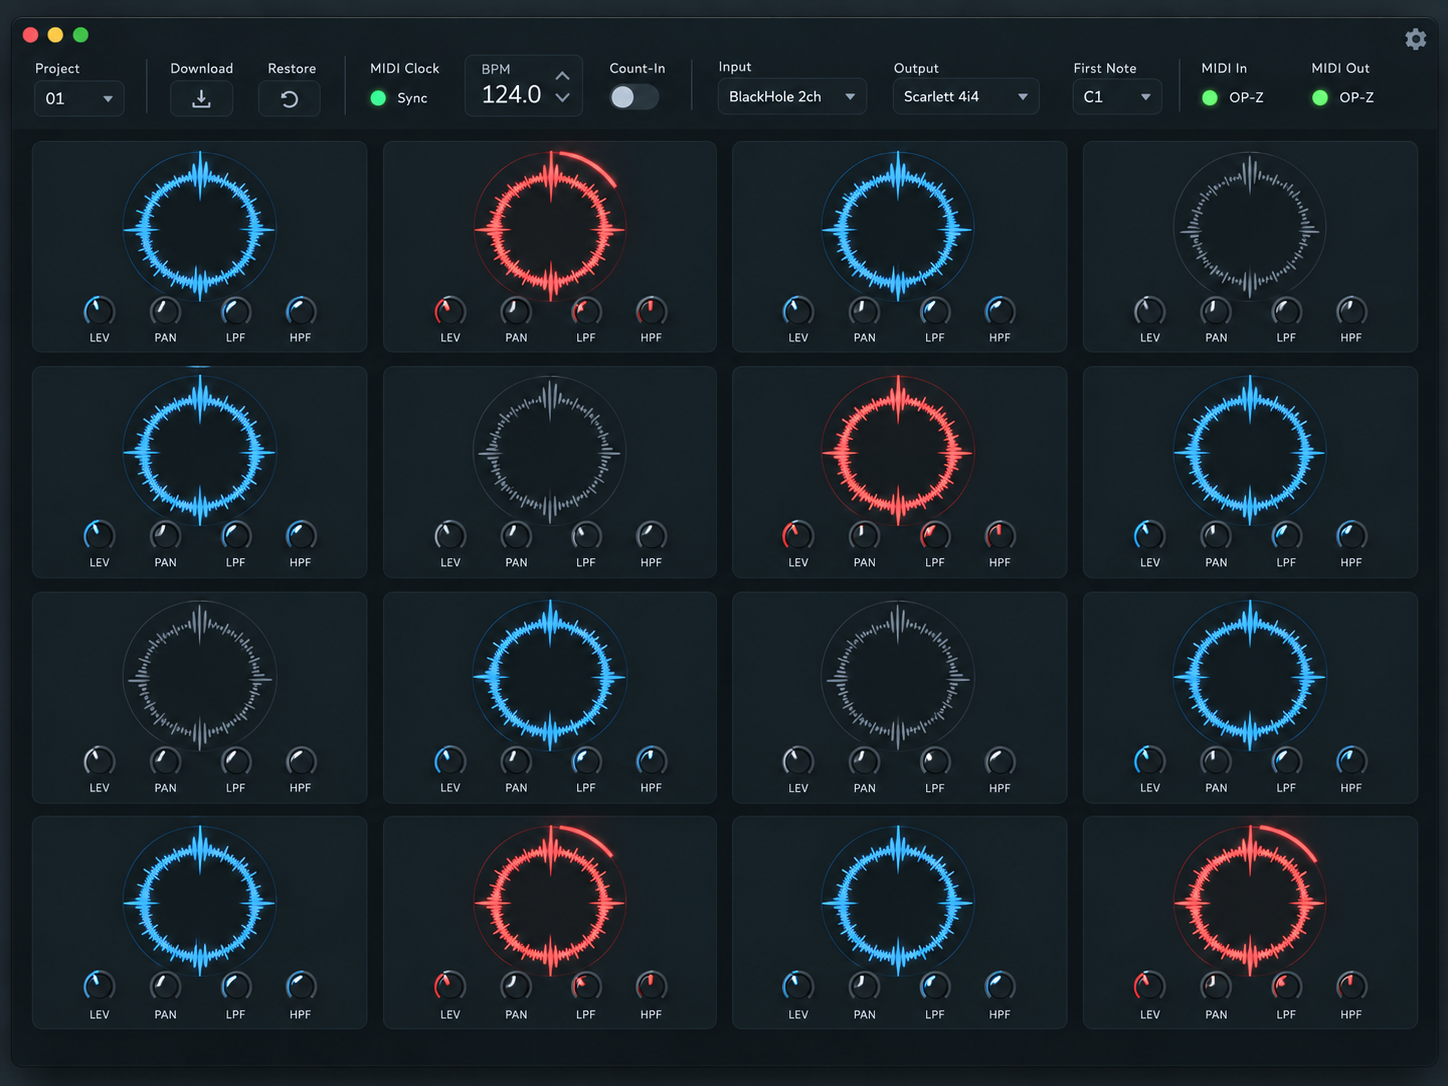
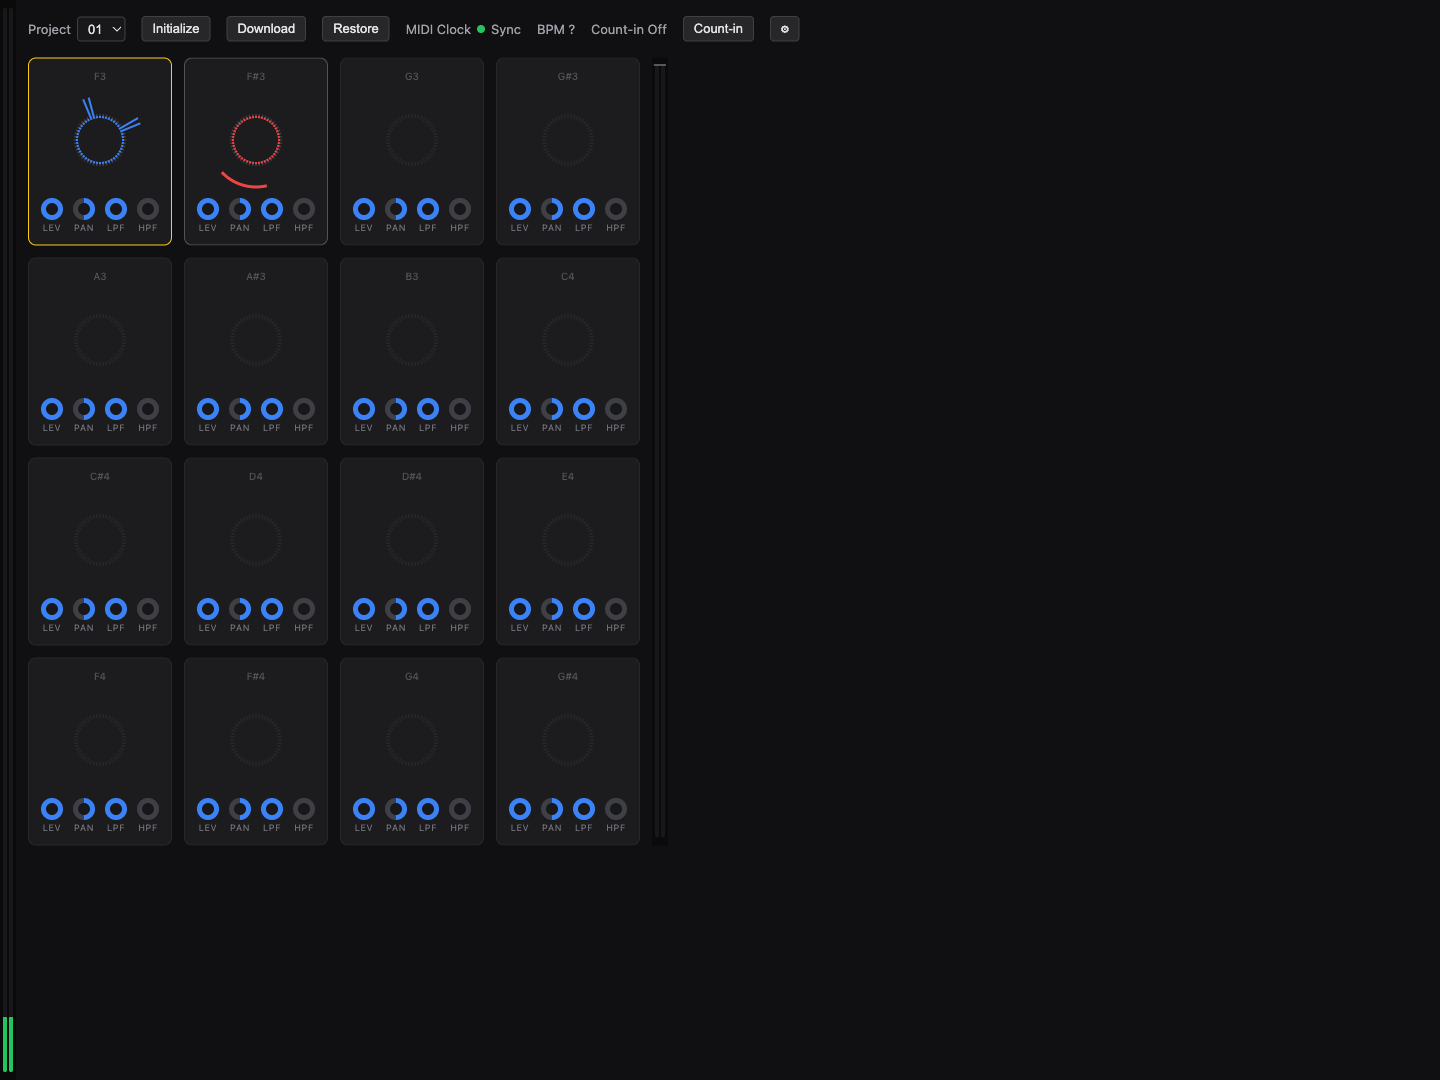
tweaks and headless testing

diff --git a/packages/loop-pad/src/sampler/useSampler.ts b/packages/loop-pad/src/sampler/useSampler.ts
@@ -8,7 +8,7 @@
 import { useEffect, useMemo, useRef, useState } from 'react';
 import { SamplerEngine } from '../audio/samplerEngine';
 import { MidiEngine, type MidiDeviceRef, type MidiEvent } from '../midi/midiEngine';
-import { computePeaks, makeDefaultProject, makeDefaultSlot, SLOT_COUNT, type Project } from './model';
+import { computePeaks, makeDefaultProject, makeDefaultSlot, SLOT_COUNT, type Project, type Slot } from './model';
 import {
   clearAllProjects, loadProject, saveProject, downloadAllProjects,
   restoreProjectsFromZip, restoreSingleProject, PROJECT_COUNT,
@@ -76,6 +76,8 @@ export function useSampler() {
   settingsRef.current = settings;
 
   const selectedSlotRef = useRef<number | null>(null);
+  const previousSelectedSlotRef = useRef<number | null>(null);
+  const deletedSlotsRef = useRef<Map<number, Slot>>(new Map());
   const lastSampleEventRef = useRef<{ slot: number; time: number } | null>(null);
   const lastDeleteEventTimeRef = useRef<number | null>(null);
   const standaloneDeleteTimeoutRef = useRef<ReturnType<typeof setTimeout> | null>(null);
@@ -88,6 +90,7 @@ export function useSampler() {
   const expectedTransportEchoRef = useRef<{ type: 'start' | 'stop'; expiresAt: number } | null>(null);
   const sentTransportEventsRef = useRef<('start' | 'stop')[]>([]);
   const initPromiseRef = useRef<Promise<void> | null>(null);
+  const initErrorRef = useRef<string | null>(null);
   const autoSaveTimeoutRef = useRef<ReturnType<typeof setTimeout> | null>(null);
   const playbackStartRef = useRef<Map<number, { startedAt: number; durationMs: number }>>(new Map());
   const recordingTailTimeoutRef = useRef<Map<number, ReturnType<typeof setTimeout>>>(new Map());
@@ -107,20 +110,45 @@ export function useSampler() {
 
   function selectSlot(slot: number | null): void {
     if (selectedSlotRef.current === slot) return;
+    if (slot !== null && selectedSlotRef.current !== null) {
+      previousSelectedSlotRef.current = selectedSlotRef.current;
+    }
     selectedSlotRef.current = slot;
     setSelectedSlot(slot);
+  }
+
+  function clearSelection(): void {
+    previousSelectedSlotRef.current = null;
+    selectSlot(null);
+  }
+
+  function restorePreviousSelection(): void {
+    const previous = previousSelectedSlotRef.current;
+    previousSelectedSlotRef.current = null;
+    selectedSlotRef.current = previous;
+    setSelectedSlot(previous);
   }
 
   function deleteSlot(slot: number): void {
     const engine = engineRef.current!;
     const current = projectRef.current.slots[slot]!;
+    const deleted = deletedSlotsRef.current.get(slot);
     if (current.state === 'recording') {
       cancelRecordingTail(slot);
       engine.cancelRecording(slot);
     }
     engine.clearSlotBuffer(slot);
+    if (deleted) {
+      projectRef.current.slots[slot] = deleted;
+      if (deleted.samples) engine.loadSlotBuffer(slot, deleted.samples);
+      deletedSlotsRef.current.delete(slot);
+      selectSlot(slot);
+      scheduleAutoSave();
+      return;
+    }
+    if (current.samples) deletedSlotsRef.current.set(slot, { ...current, state: 'stopped' });
     projectRef.current.slots[slot] = makeDefaultSlot();
-    if (selectedSlotRef.current === slot) selectSlot(null);
+    if (selectedSlotRef.current === slot) restorePreviousSelection();
     scheduleAutoSave();
   }
 
@@ -196,6 +224,7 @@ export function useSampler() {
           current.recordingPeaks = [];
           current.state = 'stopped';
           engine.loadSlotBuffer(slot, samples);
+          deletedSlotsRef.current.delete(slot);
           selectSlot(slot);
           scheduleAutoSave();
         });
@@ -259,7 +288,7 @@ export function useSampler() {
     if (countInStateRef.current !== 'counting') return;
     if (countInTimerRef.current) clearTimeout(countInTimerRef.current);
     countInTimerRef.current = null;
-    countInStateRef.current = 'awaiting-restart';
+    countInStateRef.current = 'idle';
     setCountInCounting(false);
     sendTransportStart();
   }
@@ -403,7 +432,11 @@ export function useSampler() {
   }
 
   async function init(opts?: { silent?: boolean }): Promise<void> {
-    if (initPromiseRef.current) return initPromiseRef.current;
+    if (initPromiseRef.current) {
+      await initPromiseRef.current;
+      if (!opts?.silent && initErrorRef.current) setError(initErrorRef.current);
+      return;
+    }
     const pending = initialize(opts);
     initPromiseRef.current = pending;
     try {
@@ -491,6 +524,7 @@ export function useSampler() {
       const initialProjectIndex = lastProjectIndex >= 1 && lastProjectIndex <= PROJECT_COUNT ? lastProjectIndex : 1;
       const loaded = await loadProject(initialProjectIndex);
       projectRef.current = loaded;
+      deletedSlotsRef.current.clear();
       projectIndexRef.current = initialProjectIndex;
       for (let slot = 0; slot < SLOT_COUNT; slot++) {
         const s = loaded.slots[slot]!;
@@ -498,9 +532,12 @@ export function useSampler() {
       }
       setProjectIndex(initialProjectIndex);
       setProject({ slots: [...loaded.slots] });
+      initErrorRef.current = null;
       setReady(true);
     } catch (e) {
-      if (!opts?.silent) setError(e instanceof Error ? e.message : String(e));
+      const message = e instanceof Error ? e.message : String(e);
+      initErrorRef.current = message;
+      if (!opts?.silent) setError(message);
     }
   }
 
@@ -651,9 +688,10 @@ export function useSampler() {
 
     const loaded = await loadProject(index);
     projectRef.current = loaded;
+    deletedSlotsRef.current.clear();
     projectIndexRef.current = index;
     updateSettings({ lastProjectIndex: index });
-    selectSlot(null);
+    clearSelection();
     for (let slot = 0; slot < SLOT_COUNT; slot++) {
       engine.clearSlotBuffer(slot);
       const s = loaded.slots[slot]!;
@@ -661,6 +699,28 @@ export function useSampler() {
     }
     setProjectIndex(index);
     setProject({ slots: [...loaded.slots] });
+  }
+
+  async function initializeProject(): Promise<void> {
+    const engine = engineRef.current;
+    if (!engine) return;
+    if (autoSaveTimeoutRef.current) clearTimeout(autoSaveTimeoutRef.current);
+
+    for (let slot = 0; slot < SLOT_COUNT; slot++) {
+      cancelRecordingTail(slot);
+      engine.cancelRecording(slot);
+      engine.stop(slot);
+      engine.clearSlotBuffer(slot);
+    }
+
+    const emptyProject = makeDefaultProject();
+    projectRef.current = emptyProject;
+    deletedSlotsRef.current.clear();
+    clearSelection();
+    playbackStartRef.current.clear();
+    await saveProject(projectIndexRef.current, emptyProject);
+    setProject({ slots: [...emptyProject.slots] });
+    setRestoreStatus('');
   }
 
   async function downloadProjects(): Promise<void> {
@@ -688,6 +748,7 @@ export function useSampler() {
       const engine = engineRef.current!;
       const loaded = await loadProject(projectIndexRef.current);
       projectRef.current = loaded;
+      deletedSlotsRef.current.clear();
       for (let slot = 0; slot < SLOT_COUNT; slot++) {
         engine.clearSlotBuffer(slot);
         const s = loaded.slots[slot]!;
@@ -713,9 +774,10 @@ export function useSampler() {
     }
     const emptyProject = makeDefaultProject();
     projectRef.current = emptyProject;
+    deletedSlotsRef.current.clear();
     projectIndexRef.current = 1;
     updateSettings({ lastProjectIndex: 1 });
-    selectSlot(null);
+    clearSelection();
     playbackStartRef.current.clear();
     setProjectIndex(1);
     setProject({ slots: [...emptyProject.slots] });
@@ -734,7 +796,7 @@ export function useSampler() {
       midiOutputs, selectedMidiOutputId, selectMidiOutput,
       settings, updateSettings,
       isSlotPlaying,
-      projectIndex, selectProject, projectCount: PROJECT_COUNT,
+      projectIndex, selectProject, initializeProject, projectCount: PROJECT_COUNT,
       project, bpm, clockRunning, countInCounting, playbackProgress, tick, selectedSlot,
       downloadProjects, restoreFromFile, clearProjectMemory, restoreStatus, inputLevelAnalysers, masterLevelAnalysers,
       startCountIn,

diff --git a/packages/loop-pad/src/ui/SamplerPage.tsx b/packages/loop-pad/src/ui/SamplerPage.tsx
@@ -49,6 +49,7 @@ export function SamplerPage() {
       startCountIn: () => s.startCountIn(),
       sentTransportEvents: () => s.getSentTransportEvents(),
       selectProject: (index: number) => s.selectProject(index),
+      initializeProject: () => s.initializeProject(),
       updateSettings: (patch: Partial<typeof s.settings>) => s.updateSettings(patch),
     };
   }, [s]);
@@ -87,6 +88,16 @@ export function SamplerPage() {
             ))}
           </select>
         </label>
+        <button
+          style={btnStyle}
+          onClick={() => {
+            if (window.confirm(`Initialize Project ${s.projectIndex}? This cannot be undone.`)) {
+              void s.initializeProject();
+            }
+          }}
+        >
+          Initialize
+        </button>
         <button style={btnStyle} onClick={() => void s.downloadProjects()}>Download</button>
         <button style={btnStyle} onClick={() => fileInputRef.current?.click()}>Restore</button>
         <input

diff --git a/packages/loop-pad/docs/manual.md b/packages/loop-pad/docs/manual.md
@@ -2,7 +2,7 @@
 
 ## Purpose
 
-The sampler records and plays 16 audio clips from MIDI notes. It is designed for an OP-Z-led setup and runs in a Chromium browser on macOS. Ten projects preserve samples and mixer state in browser storage.
+The sampler records and plays 16 audio clips from MIDI notes. It is designed for an OP-Z-led setup and runs in a Chromium browser on macOS.
 
 ## Setup
 
@@ -20,7 +20,7 @@ The sampler records and plays 16 audio clips from MIDI notes. It is designed for
 6. Assign the four per-slot mixer CCs: **HPF Cutoff**, **LPF Cutoff**, **Pan**, and **Level** (CC 1–4 by default), plus **Master Level** (CC 16 by default).
 7. Select **Project 1–10** from the project dropdown.
 
-The app remembers the last selected Audio Input, Input Channels, Audio Output, Audio Output Channels, MIDI Input, and MIDI Output in browser storage. On later visits, it automatically reconnects each device selector when a device with the same name becomes available, then restores remembered stereo input and output pairs when the device exposes them. If a remembered device or channel selection is unavailable, the selector uses its default until it appears or another selection is made.
+The app remembers the last selected Audio Input, Input Channels, Audio Output, Audio Output Channels, MIDI Input, MIDI Output, and project in browser storage. On later visits, it automatically reconnects each device selector when a device with the same name becomes available, then restores remembered stereo input and output pairs when the device exposes them. It also opens the last selected project. If a remembered device or channel selection is unavailable, the selector uses its default until it appears or another selection is made.
 
 ## Sample notes
 
@@ -36,6 +36,19 @@ The **First Sample Note** begins one contiguous range of 16 notes. For example, 
 
 Recording begins immediately. After Note Off, recording continues for the configurable recording-tail period (300 ms by default). If the next pattern cycle triggers that slot before the tail has finished, it plays the captured portion immediately while the tail continues recording. Playback includes that tail with a decay over the same period. A slot records the selected audio input. Triggering other slots does not stop recording or playback. Stopping the sequencer stops all playback immediately.
 
+## Selected sample
+
+The selected sample receives the four per-slot mixer CCs and is outlined in thin yellow on the front panel. There is no selection when the app starts or after a project change. The following table lists the only actions that change the selection:
+
+| Action | Sequencer state | Effect on selected sample |
+| --- | --- | --- |
+| Finish recording a slot | Any | Selects the recorded slot. |
+| Trigger a loaded slot | Stopped | Selects the triggered slot. |
+| Delete the selected slot | Any | Selects the slot that was selected immediately before it. |
+| Send a standalone Delete Note | Running | Deletes and clears the selected slot after 500 ms; if no slot is selected, it has no effect. |
+| Switch projects | Any | Clears the selection. |
+| Clear Project Memory | Any | Clears the selection. |
+
 ## Deleting a sample
 
 There is one global **Delete Note**.
@@ -43,9 +56,9 @@ There is one global **Delete Note**.
 1. Trigger a slot's sample note.
 2. Trigger the Delete Note within 500 ms.
 
-That slot is cleared. The two notes may arrive in either order, provided they are no more than 500 ms apart. Deleting a recording cancels it; deleting a playing sample stops it. When the sequencer is stopped, a Delete Note outside the 500 ms window does nothing.
+That slot is cleared. Repeat the same delete gesture for that slot to restore the deleted sample and its mixer settings. The two notes may arrive in either order, provided they are no more than 500 ms apart. Deleting a recording cancels it; deleting a playing sample stops it. When the sequencer is stopped, a Delete Note outside the 500 ms window does nothing.
 
-When the sequencer is running, a Delete Note by itself clears the selected slot after the 500 ms pairing window. Recording a slot selects it; mixer CC adjustments continue to apply to the selected slot. Playing a sample while the sequencer is stopped also selects its slot. The selected slot has a thin yellow outline. Starting playback while the sequencer is running does not change the selection, so a standalone Delete Note can undo the last recording.
+When the sequencer is running, a Delete Note by itself deletes the selected slot after the 500 ms pairing window. Starting playback while the sequencer is running does not change the selection, so a standalone Delete Note can undo the last recording.
 
 Choose a Delete Note outside the 16-note sample range.
 
@@ -58,13 +71,15 @@ Each slot has four controls:
 - **LPF Cutoff** — lowers the low-pass cutoff as the CC value decreases.
 - **HPF Cutoff** — raises the high-pass cutoff as the CC value increases.
 
-The four per-slot CC assignments control the **selected slot**. Completing a recording selects that slot, and subsequent CC adjustments continue to apply to it. Playing a slot while the sequencer is stopped selects that slot; playback while running does not change the selection. The global **Master Level CC** controls the final playback level without requiring a selected slot.
+The four per-slot CC assignments control the **selected slot**. Completing a recording selects that slot, and subsequent CC adjustments continue to apply to it. The global **Master Level CC** controls the final playback level without requiring a selected slot.
 
 CCs are accepted only on the configured MIDI channel. Until a slot is selected, mixer CCs do nothing. The filters have no resonance control. Filter slope and other advanced filter behavior are global settings in the configuration panel.
 
 ## Projects
 
-Use the project dropdown to select **Project 1–10**. Each project stores its 16 samples and all per-sample mixer settings. Changes are saved automatically in the browser. Switching projects saves the current project, then loads the selected project. Reloading the app opens the last selected project.
+Use the project dropdown to select **Project 1–10**. Each project stores its 16 samples and all per-sample mixer settings. Changes are saved automatically in the browser.
+
+**Initialize** permanently replaces the selected project with an empty project. It does not affect the other nine projects or app settings.
 
 Project playback and recording stop when switching projects. Device selections, MIDI and CC assignments, count-in settings, recording latency compensation, and global filter configuration are app settings and do not change with the project.
 
@@ -150,6 +165,7 @@ Select the gear button on the front panel to open the configuration panel. It co
 | Setting | Function | Default |
 | --- | --- | --- |
 | Project | Selects Project 1–10, saving the current project before loading another. | 1 |
+| Initialize | Permanently replaces the selected project with an empty project. | — |
 | Download Projects | Downloads all ten projects in one ZIP. | — |
 | Restore | Restores matching projects from a ZIP or replaces the current project from one project file. | — |
 
@@ -159,5 +175,4 @@ Select the gear button on the front panel to open the configuration panel. It co
 - MIDI velocity does not change recording or playback level.
 - Mixer CC values use the standard MIDI range, 0–127.
 - Samples are one-shots and can overlap.
-- Reloading or closing the page preserves the current project in browser storage.
 - Automatic reconnection matches the exact device name. Selecting another device updates the remembered choice.

diff --git a/packages/loop-pad/README.md b/packages/loop-pad/README.md
@@ -15,6 +15,17 @@ npm run dev:loop-pad
 Requires a real Chromium-based browser (Chrome/Edge) for Web MIDI's
 permission prompt.
 
+## Refreshing the front-panel image
+
+With the Loop Pad dev server running, render the current UI into
+`docs/front-panel.png`:
+
+```sh
+npm run render:front-panel
+```
+
+Set `LOOP_PAD_URL` to capture an app running at a different URL.
+
 ```sh
 npm run build:loop-pad   # tsc -b && vite build
 npm run lint:loop-pad    # oxlint
